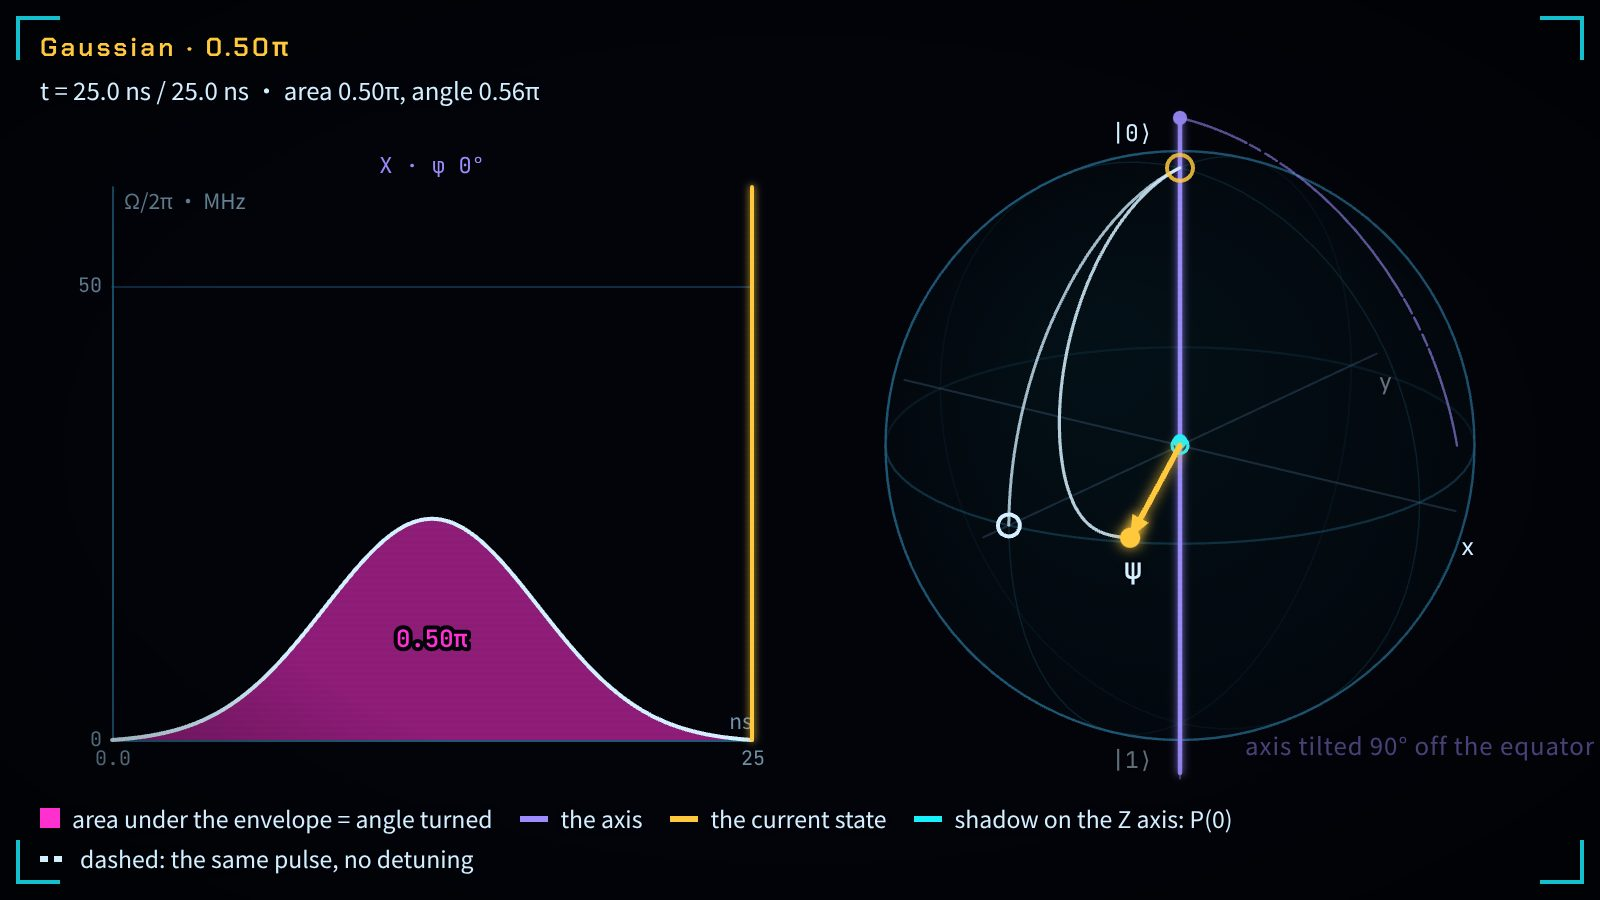
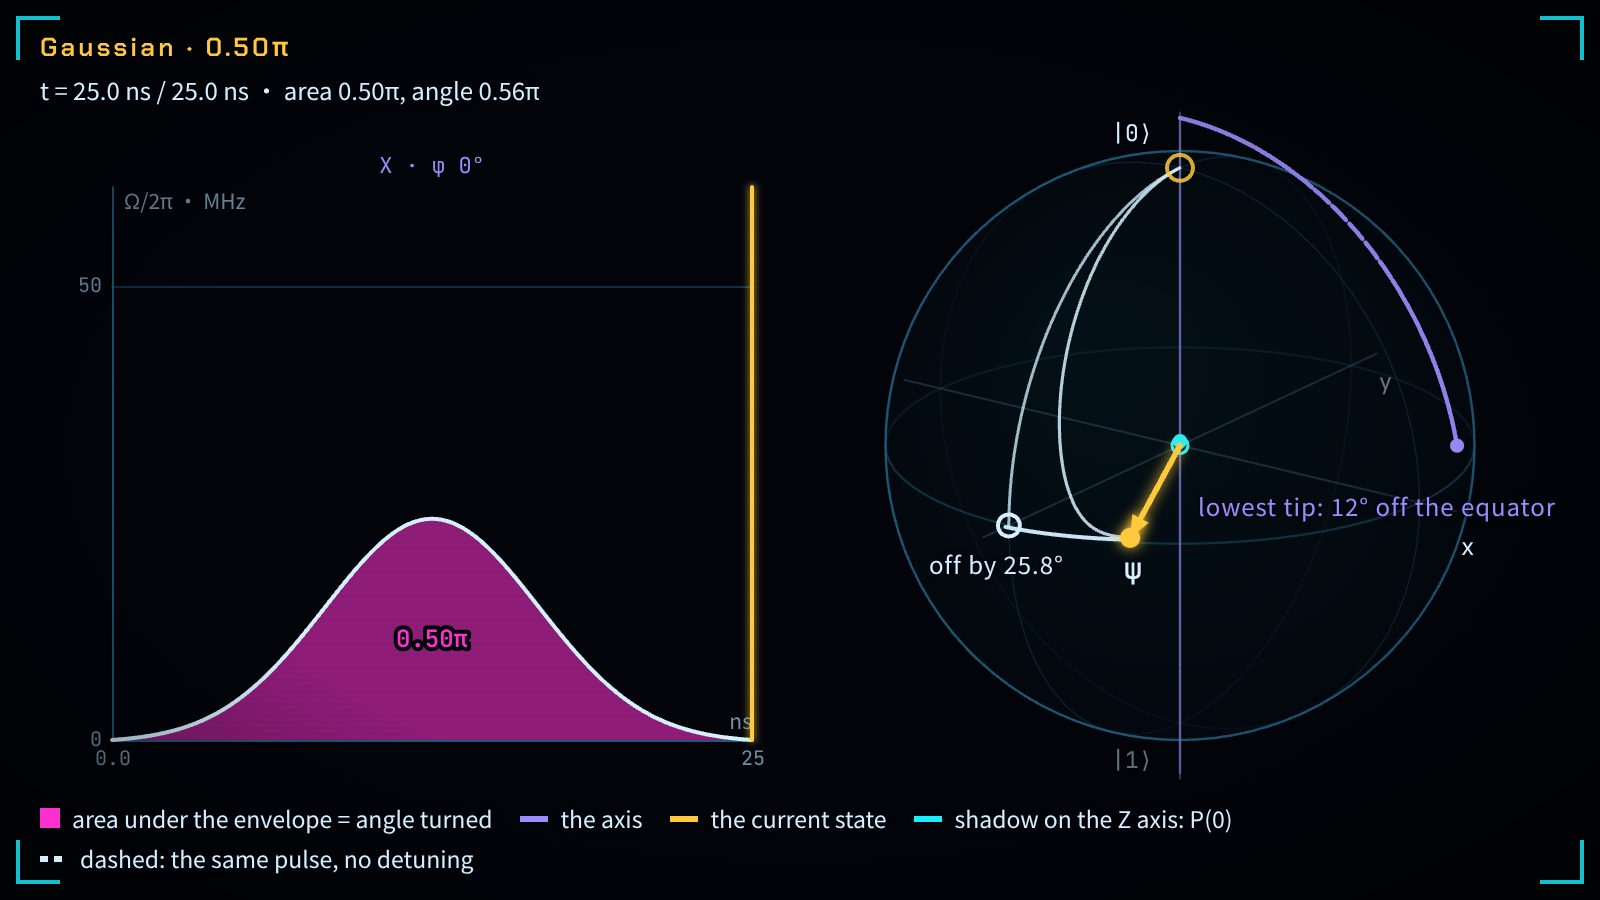
pulse-area-virtual-z: make the detuned still show the sway and the miss
At the end of the pulse the envelope is zero, so the axis of that instant is vertical
and was labelled as tilted 90 degrees out of the equator, the same picture as the
carrier card, while the 26-degree miss of the caption had nothing on the stage. When
the drive is detuned the instantaneous axis is now drawn faint, the trail of its tip
is the bold mark, labelled with its lowest tilt (at the envelope's peak), and a short
white arc between the two end points carries the miss. The caption and the card note
name both; the suite checks the labels of the printed still against its own Runge-Kutta
run and the peak tilt.

diff --git a/books/quantum-geometry/viz/pulse-area-virtual-z/main.js b/books/quantum-geometry/viz/pulse-area-virtual-z/main.js
@@ -187,6 +187,25 @@
     return { wide, env, cx: W / 2, cy: (sy0 + sy1) / 2, R };
   }
 
+  /** The trail of the axis tip of a detuned pulse up to now, and its point closest to the equator. */
+  function swayOf(now) {
+    const p = now.cur, sh = SHAPES[p.shape], pts = [], m = 80;
+    let low = null, minTilt = 90;
+    for (let i = 0; i <= m; i++) {
+      const om = p.A * sh.f(now.tau * i / m, p.T), u = v3.unit([om * Math.cos(p.phi), om * Math.sin(p.phi), p.det]), tilt = Math.asin(clamp(Math.abs(u[2]), 0, 1)) / DEG;
+      pts.push(v3.scale(u, 1.18));
+      if (!low || tilt < minTilt) { minTilt = tilt; low = pts[i]; }
+    }
+    return { pts, low, minTilt };
+  }
+  /** The great-circle arc (just outside the sphere) from b to a, and the angle between them. */
+  function missOf(a, b) {
+    const deg = Math.acos(clamp(v3.dot(a, b), -1, 1)) / DEG, arc = [], m = 24, ax = v3.cross(b, a), n = v3.len(ax);
+    if (n < 1e-9) return { deg, arc: [], mid: a };
+    for (let i = 0; i <= m; i++) arc.push(v3.scale(v3.rot(b, v3.scale(ax, 1 / n), deg * DEG * i / m), 1.02));
+    return { deg, arc, mid: arc[m / 2] };
+  }
+
   function drawSphere(now, ghostNow, C) {
     const st = stage, lab = S.frame === 'lab', thick = TRV.thumbMode ? 1.5 : 1;
     st.sphere(1, { lat: [0], lon: 2, shade: 0.05, alpha: TRV.thumbMode ? 0.7 : 0.45 });
@@ -200,18 +219,23 @@
     let axis = null, axisTag = '';
     if (lab) { axis = [0, 0, 1]; axisTag = L('载频的轴 z', 'carrier axis z'); }
     else if (now.axis) { axis = now.axis; const pd = now.cur.phiDeg, nm = axisName(pd); axisTag = Math.abs(now.axis[2]) > 1e-6 ? L(`转轴倾出赤道 ${fix(Math.asin(clamp(now.axis[2], -1, 1)) / DEG, 0)}°`, `axis tilted ${fix(Math.asin(clamp(now.axis[2], -1, 1)) / DEG, 0)}° off the equator`) : `${nm ? nm + ' · ' : ''}φ ${fmtDeg(pd)}`; }
-    if (!lab && now.cur && now.cur.det !== 0) {      // detuned: where the axis tip has been during this pulse
-      const p = now.cur, sh = SHAPES[p.shape], pts = [], m = 80;
-      for (let i = 0; i <= m; i++) { const om = p.A * sh.f(now.tau * i / m, p.T); pts.push(v3.scale(v3.unit([om * Math.cos(p.phi), om * Math.sin(p.phi), p.det]), 1.18)); }
-      st.path(pts, { color: P.violet, width: 1.2, alpha: 0.6, dash: [3, 3], back: 0.4 });
+    // detuned: the axis sways with the envelope (vertical where Ω → 0 at both ends), so the trail of its tip is what
+    // carries the story; the axis of this instant is drawn faint and the label marks the trail's lowest point
+    const sway = !lab && now.cur && now.cur.det !== 0 ? swayOf(now) : null;
+    if (sway) {
+      st.path(sway.pts, { color: P.violet, width: 2.2 * thick, alpha: 0.95, dash: [5, 3], back: 0.45 });
+      st.dot(sway.low, 3.5, P.violet, { fade: false });
+      if (!TRV.thumbMode) st.tag('axis', sway.low, L(`轴端最低处倾出赤道 ${fix(sway.minTilt, 0)}°`, `lowest tip: ${fix(sway.minTilt, 0)}° off the equator`), 'raw c-vi', { dx: -40, dy: 30 });
     }
     if (axis) {
-      const c = st.ctx; c.save(); c.shadowColor = P.violet; c.shadowBlur = 8;
-      st.line(v3.scale(axis, -1.18), v3.scale(axis, 1.18), { color: P.violet, width: 2.2 * thick, alpha: 0.95, back: 0.55 }); c.restore();
-      st.dot(v3.scale(axis, 1.18), 3.5, P.violet, { fade: false });
-      // near the vertical, the label goes to the lower end so that it does not sit on |0⟩ and ψ
-      const low = axis[2] > 0.5, tip = v3.scale(axis, low ? -1.18 : 1.18);
-      if (!TRV.thumbMode) st.tag('axis', tip, axisTag, 'raw c-vi', { dx: low ? 120 : 0, dy: -14 });
+      const c = st.ctx; c.save(); if (!sway) { c.shadowColor = P.violet; c.shadowBlur = 8; }
+      st.line(v3.scale(axis, -1.18), v3.scale(axis, 1.18), sway ? { color: P.violet, width: 1.2, alpha: 0.45, back: 0.4 } : { color: P.violet, width: 2.2 * thick, alpha: 0.95, back: 0.55 }); c.restore();
+      if (!sway) {
+        st.dot(v3.scale(axis, 1.18), 3.5, P.violet, { fade: false });
+        // near the vertical, the label goes to the lower end so that it does not sit on |0⟩ and ψ
+        const low = axis[2] > 0.5, tip = v3.scale(axis, low ? -1.18 : 1.18);
+        if (!TRV.thumbMode) st.tag('axis', tip, axisTag, 'raw c-vi', { dx: low ? 120 : 0, dy: -14 });
+      }
     }
     // the angle turned in this pulse: a magenta sector about the axis (rotating frame, fixed axis only)
     if (!lab && now.cur && now.cur.det === 0 && now.axis && now.rStart) {
@@ -235,6 +259,12 @@
       const gp = lab ? labOf(ghostNow) : ghostNow.r;
       st.dot(gp, 5.5, P.ink, { ring: true, width: 2, fade: false });
       st.dot([0, 0, gp[2]], 4, P.cyan, { ring: true, width: 1.6, fade: false });
+      // detuned: the miss itself, a short great-circle arc from the white ring to the amber state, with its angle
+      const miss = C.kind === 'det' ? missOf(cur, gp) : null;
+      if (miss && miss.deg > 1) {
+        st.path(miss.arc, { color: P.ink, width: 2 * thick, alpha: 0.95, back: 0.5 });
+        if (!TRV.thumbMode) st.tag('miss', miss.mid, L(`差 ${fix(miss.deg, 1)}°`, `off by ${fix(miss.deg, 1)}°`), 'raw ink', { dx: -34, dy: 14 });
+      }
     }
     // the path travelled, the starting ring, the shadow on z, the current state
     if (now.t > 1e-9) st.path(path(C.main, now.t, lab), { color: P.ink, width: 1.6 * thick, alpha: 0.85, back: 0.35 });
@@ -422,7 +452,7 @@
     carrier: ['实验室系，没有驱动：琥珀色的态从 |+⟩ 出发，绕紫色的 z 轴每 0.2 ns 转一圈，0.4 ns 里转两圈；北极与南极的两个白点一动不动。左边的虚线是载频参考 cos ω₀t，也走了两个周期。', 'Lab frame, no drive: the amber state starts at |+⟩ and goes round the violet z axis once every 0.2 ns, twice in 0.4 ns, while the two white dots at the north and south poles do not move. The dashed line on the left is the carrier reference cos ω₀t, which also runs through two cycles.'],
     quarter: ['方波，10 MHz，25 ns：左边品红的面积是 π/2。右边琥珀色的态从北极出发，绕紫色的 X 轴转过同样大小的品红扇形，停在赤道上，P(0) = 1/2。', 'A square pulse, 10 MHz for 25 ns: the magenta area on the left is π/2. On the right the amber state leaves the north pole and turns about the violet X axis through a magenta sector of the same size, stopping on the equator: P(0) = 1/2.'],
     gauss: ['高斯包络，面积同样是 π/2：中间高、两头低，所以琥珀色的态先慢、后快、再慢，而虚线的方波匀速走；两者在 25 ns 停在同一点。', 'A Gaussian envelope with the same area π/2: tall in the middle and low at the ends, so the amber state moves slowly, then fast, then slowly, while the dashed square pulse moves evenly; at 25 ns both stop at the same point.'],
-    detune: ['同一个高斯包络（面积 π/2），但驱动频率偏了 5 MHz：紫色的转轴倾出赤道并随包络晃动（紫色虚线是轴端走过的路），琥珀色的态没有停在虚线（不失谐）的终点上，差了约 26°。', 'The same Gaussian envelope (area π/2), but the drive is 5 MHz off: the violet axis tilts out of the equator and sways with the envelope (the dashed violet trail is where its tip has been), and the amber state does not stop at the end of the dashed (undetuned) path; it misses by about 26°.'],
+    detune: ['同一个高斯包络（面积 π/2），但驱动频率偏了 5 MHz：紫色的转轴倾出赤道并随包络晃动，紫色虚线是轴端走过的路，在包络峰值处离赤道最近（12°），脉冲结束时转轴回到竖直。琥珀色的态没有停在虚线（不失谐）的终点上，两点之间的白色短弧标出差了约 26°。', 'The same Gaussian envelope (area π/2), but the drive is 5 MHz off: the violet axis tilts out of the equator and sways with the envelope. The dashed violet trail is where its tip has been, closest to the equator (12°) at the envelope\'s peak; when the pulse ends the axis is vertical again. The amber state does not stop at the end of the dashed (undetuned) path; the short white arc between the two marks the miss, about 26°.'],
     order: ['两个面积 π/2 的方波，先绕 X、再绕 Y：北极走到 −y。虚线是先 Y 后 X：走到 +x。同样的两个脉冲，次序一换，终点就不同。', 'Two square pulses of area π/2, first about X, then about Y: the north pole goes to −y. The dashed path is Y first, then X: it goes to +x. The same two pulses in the other order end elsewhere.'],
     vz: ['从 |+⟩ 出发，电路是先 Z(90°)、再 X(π/2)。硬件不发 Z 脉冲（左边的竖线宽 0 ns），只把脉冲相位改成 φ − λ = −90°（−Y）：实线绕 −Y 转到北极。虚线照字面先绕竖轴转 90° 到 +y，再绕 X 转到北极。两者都在北极，P(0) = 1。', 'From |+⟩ the circuit is Z(90°), then X(π/2). The hardware sends no Z pulse (the mark on the left is 0 ns wide), only shifts the pulse to phase φ − λ = −90° (−Y): the solid path turns about −Y to the north pole. The dashed path takes the circuit literally: 90° about the vertical axis to +y, then about X to the north pole. Both end at the north pole: P(0) = 1.'],
     sign: ['同一个电路，相位却改成了 φ + λ = +90°（+Y）：实线绕 +Y 转到南极，P(0) = 0；虚线（电路本来的意思）仍在北极。补偿的符号必须是 φ − λ。', 'The same circuit, but the phase shifted to φ + λ = +90° (+Y): the solid path turns about +Y to the south pole, P(0) = 0, while the dashed path (what the circuit means) still ends at the north pole. The shift must be φ − λ.']
@@ -452,7 +482,7 @@
       const C = progs(), e = evaluate(C.main, clock.t), gh = C.ghost ? evaluate(C.ghost, clock.t) : null;
       return Object.assign(snap(e), { preset: cards.current, max: clock.max, playing: clock.playing, frame: S.frame, shape: S.shape, areaSet: S.area, T: S.T, phi: S.phi, det: S.det,
         lam: S.lam, sign: S.sign, two: S.two, phi2: S.phi2, r0: S.r0.slice(), peak: C.main.pulses[0].A, phys: C.main.pulses.map((p) => p.phiDeg),
-        lab: labOf(e), labPoles: [[0, 0, 1], [0, 0, -1]].map((v) => rotZ(qrot(e.q, v), e.wd * e.t)), ghost: C.kind, ghostState: gh ? snap(gh) : null });
+        sway: !e.cur || e.cur.det === 0 ? null : swayOf(e).minTilt, lab: labOf(e), labPoles: [[0, 0, 1], [0, 0, -1]].map((v) => rotZ(qrot(e.q, v), e.wd * e.t)), ghost: C.kind, ghostState: gh ? snap(gh) : null });
     },
     at: (t) => { const C = progs(); return { main: snap(evaluate(C.main, t)), ghost: C.ghost ? snap(evaluate(C.ghost, t)) : null }; },
     seek: (t) => { clock.pause(); clock.set(t); },

diff --git a/books/quantum-geometry/en/ch11-pulses-and-virtual-z.md b/books/quantum-geometry/en/ch11-pulses-and-virtual-z.md
@@ -301,7 +301,7 @@ Next verify the four concrete numerical items:
 :::
 
 ::: {.viz src="pulse-area-virtual-z" preset="detune" height="500"}
-**Detuned, the area no longer decides.** The same Gaussian envelope of area $\pi/2$, with the drive $5\,\mathrm{MHz}$ off: the violet axis tilts out of the equator and sways with the envelope (the dashed violet trail is where its tip has been), and the amber state misses the end of the white dashed (undetuned) path by about $26^\circ$. The page cuts the pulse into a thousand or more slices and multiplies them in time order: a numerical illustration.
+**Detuned, the area no longer decides.** The same Gaussian envelope of area $\pi/2$, with the drive $5\,\mathrm{MHz}$ off: the violet axis tilts out of the equator and sways with the envelope. The dashed violet trail is where its tip has been: it comes closest to the equator, $12^\circ$ off it, at the envelope's peak, and when the pulse ends the envelope is back at zero and the faint axis is vertical again. The amber state misses the end of the white dashed (undetuned) path; the short white arc between the two marks the miss, about $26^\circ$. The page cuts the pulse into a thousand or more slices and multiplies them in time order: a numerical illustration.
 :::
 
 ::: {.viz src="pulse-area-virtual-z" height="560"}

diff --git a/books/quantum-geometry/zh/ch11-pulses-and-virtual-z.md b/books/quantum-geometry/zh/ch11-pulses-and-virtual-z.md
@@ -294,7 +294,7 @@ $$
 :::
 
 ::: {.viz src="pulse-area-virtual-z" preset="detune" height="500"}
-**失谐时，面积不再说了算。** 同一个面积 $\pi/2$ 的高斯包络，驱动频率偏了 $5\,\mathrm{MHz}$：紫色的转轴倾出赤道并随包络晃动（紫色虚线是轴端走过的路），琥珀色的态没有停在白色虚线（不失谐）的终点上，差了约 $26^\circ$。页面把脉冲切成上千小段按时间次序相乘，这是数值演示。
+**失谐时，面积不再说了算。** 同一个面积 $\pi/2$ 的高斯包络，驱动频率偏了 $5\,\mathrm{MHz}$：紫色的转轴倾出赤道并随包络晃动：紫色虚线是轴端走过的路，在包络峰值处离赤道最近，倾出 $12^\circ$；脉冲结束时包络归零，淡色的转轴回到竖直。琥珀色的态没有停在白色虚线（不失谐）的终点上，两点之间的白色短弧标出差了约 $26^\circ$。页面把脉冲切成上千小段按时间次序相乘，这是数值演示。
 :::
 
 ::: {.viz src="pulse-area-virtual-z" height="560"}
